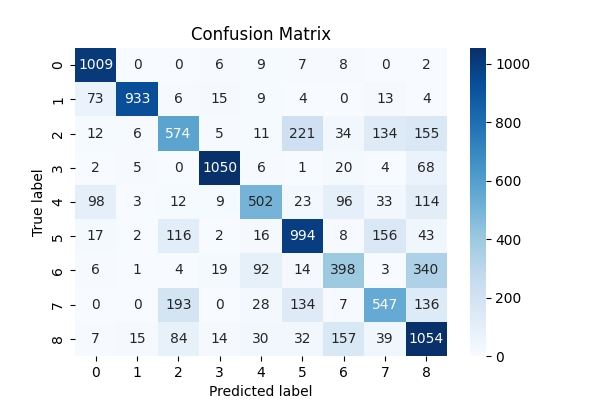
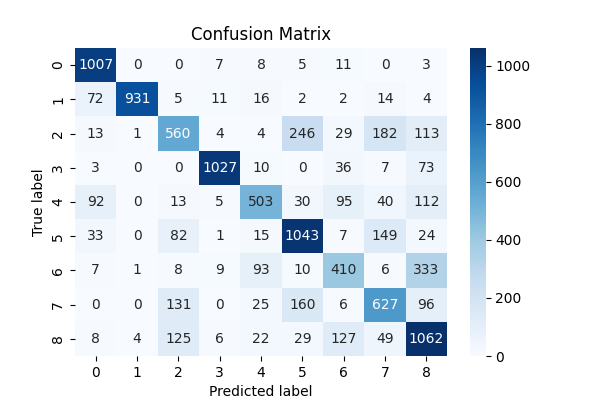
Changed neural network architecture task B

diff --git a/B/helper_functions.py b/B/helper_functions.py
@@ -24,8 +24,8 @@ def model_neural_network(params):
     # Define the model without batch normalization
     model = models.Sequential([
         layers.Flatten(input_shape=(28, 28, 3)),
+        layers.Dense(256, activation='relu'),
         layers.Dense(128, activation='relu'),
-        layers.Dense(64, activation='relu'),
         layers.Dense(64, activation='relu'),
         layers.Dense(9, activation='softmax')  # 9 output classes (0-8) with softmax
     ])
@@ -57,10 +57,10 @@ def model_nn_regularizer(dropout_value,params):
     model = models.Sequential([
         layers.Flatten(input_shape=(28, 28, 3)),
         layers.BatchNormalization(),
-        layers.Dense(128, activation='relu'),
+        layers.Dense(256, activation='relu'),
         layers.BatchNormalization(),
         layers.Dropout(dropout_value),
-        layers.Dense(64, activation='relu'),
+        layers.Dense(128, activation='relu'),
         layers.BatchNormalization(),
         layers.Dropout(dropout_value),
         layers.Dense(64, activation='relu'),

diff --git a/main.py b/main.py
@@ -7,7 +7,7 @@ def main():
     """ 
         Call the code from different tasks
     """
-    task_A.pneumonia_task()
+    #task_A.pneumonia_task()
     task_B.multiclass_task()
 
 if __name__ == "__main__":
